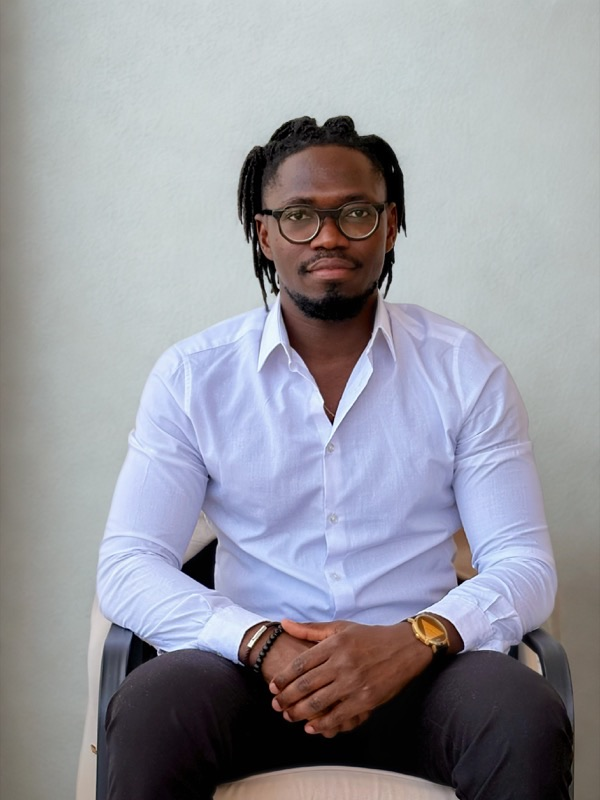
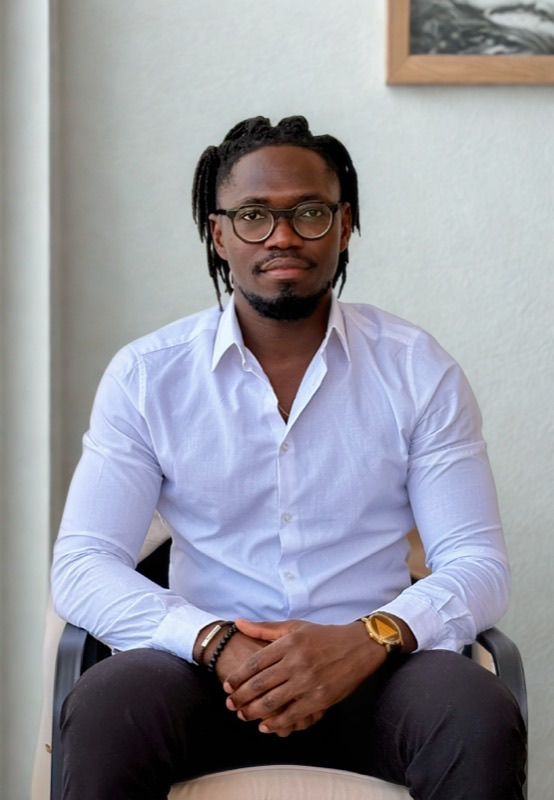
Mise à jour photo fondateur (Franck Kouassi) — accueil et collaborateurs.
Photo optimisée 800px pour le web ; suppression du doublon typo photp-*.jpg.

diff --git a/collaborateurs.html b/collaborateurs.html
@@ -122,7 +122,7 @@
                     <div class="collab-profile__side">
                         <span class="collab-profile__tag" data-i18n="team_founder_tag">Fondateur</span>
                         <div class="member__image member__image--sm">
-                            <img src="assets/colaborateurs/photo/photo-franck-antelme-kouassi.jpg" alt="Dr. Franck Antelme KOUASSI" width="140" height="140" decoding="async" onerror="this.parentElement.innerHTML='<div class=&quot;avatar-fallback avatar-fallback--lg&quot;>FK</div>'">
+                            <img src="assets/colaborateurs/photo/photo-franck-antelme-kouassi.jpg?v=20260822" alt="Dr. Franck Antelme KOUASSI" width="140" height="140" decoding="async" onerror="this.parentElement.innerHTML='<div class=&quot;avatar-fallback avatar-fallback--lg&quot;>FK</div>'">
                         </div>
                         <h3>Dr. Franck Antelme KOUASSI</h3>
                         <p class="collab-profile__role" data-i18n="team_role">Fondateur · Lead R&amp;D &amp; Data Science</p>

diff --git a/index.html b/index.html
@@ -429,7 +429,7 @@
                             <div class="team__member home-team-panel__side">
                                 <a href="collaborateurs.html#franck-kouassi" class="home-team-founder-link">
                                     <div class="member__image member__image--home">
-                                        <img src="assets/colaborateurs/photo/photo-franck-antelme-kouassi.jpg" alt="Dr. Franck Antelme KOUASSI" onerror="this.parentElement.innerHTML='<div class=&quot;avatar-fallback&quot;>FK</div>'">
+                                        <img src="assets/colaborateurs/photo/photo-franck-antelme-kouassi.jpg?v=20260822" alt="Dr. Franck Antelme KOUASSI" onerror="this.parentElement.innerHTML='<div class=&quot;avatar-fallback&quot;>FK</div>'">
                                     </div>
                                 </a>
                                 <div class="member__info text-center">
